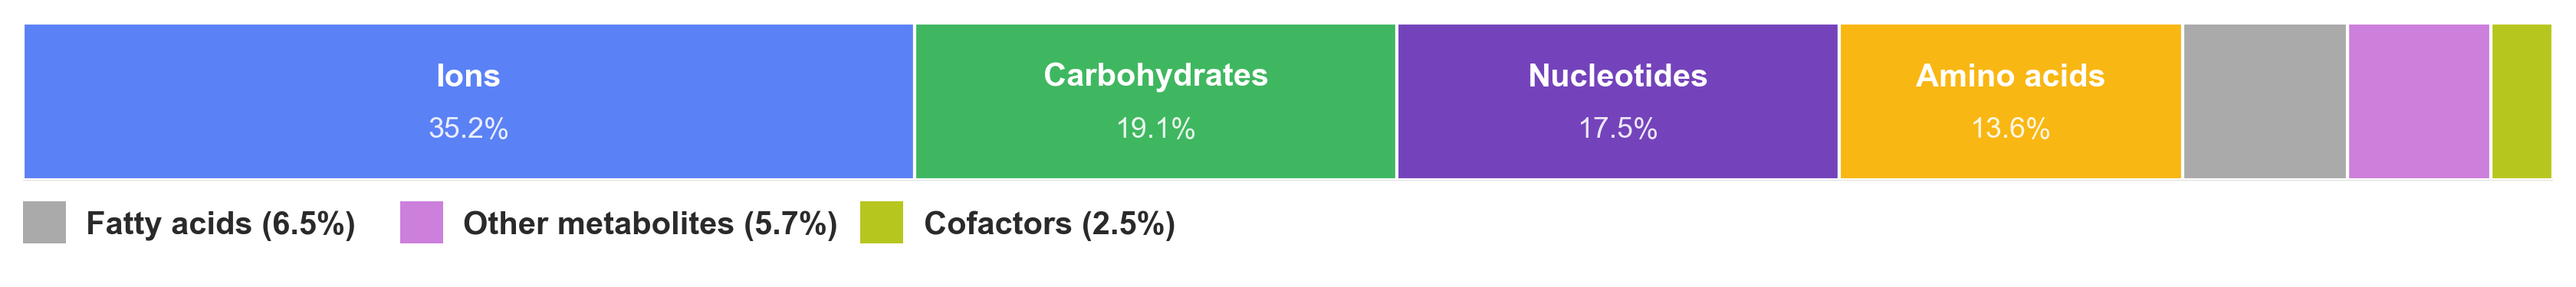
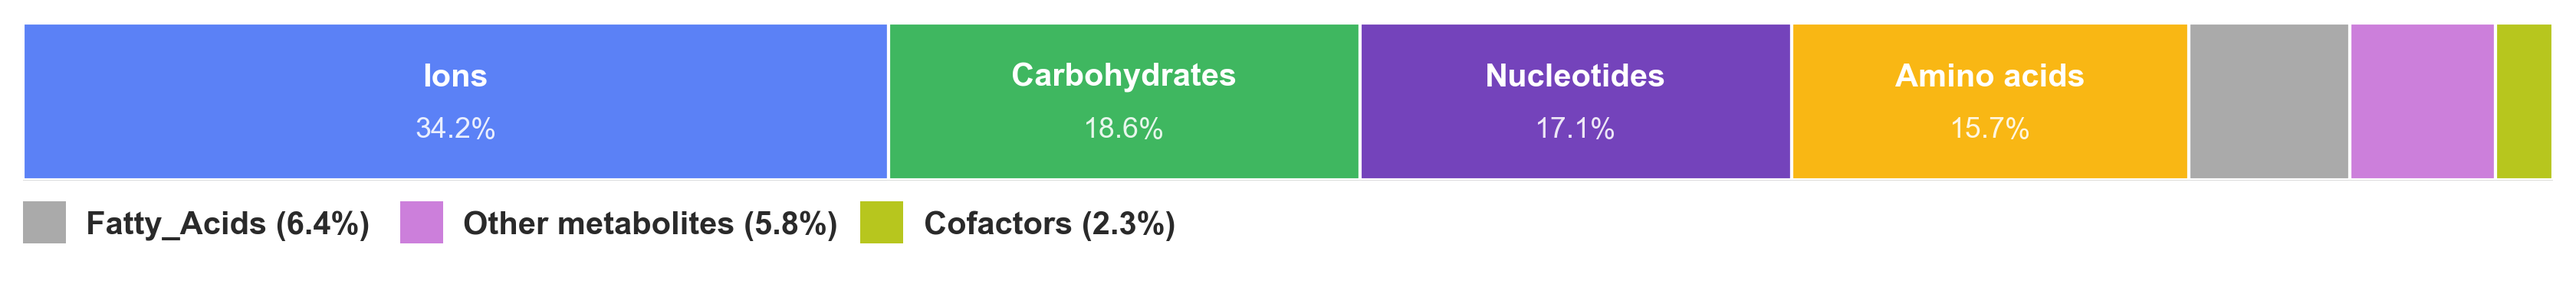
tweak figure 1A

diff --git a/figures/fig1/figure_1A.py b/figures/fig1/figure_1A.py
@@ -1,5 +1,4 @@
 import matplotlib
-import numpy as np
 import pandas as pd
 
 matplotlib.use("Agg")
@@ -7,7 +6,7 @@ import matplotlib.patches as mpatches
 import matplotlib.pyplot as plt
 
 met = pd.read_csv("cytosol_composition_metabolites.csv")
-info = pd.read_csv("info.csv")
+info = pd.read_csv("../../processed_data/info.csv")
 
 merged = met.merge(
     info[["resname", "class"]], left_on="Resname", right_on="resname", how="left"
@@ -133,12 +132,6 @@ for i, (cls, pct) in enumerate(small_segs.items()):
         fontweight="bold",
     )
     x += len(label) * 0.0055 + 0.025  # gap between entries
-
-## System stats — right side, clearly separated
-# stats = '500 ns  -  ~1 fL  -  382 protein species  -  139 metabolite types'
-# ax_foot.text(0.998, 0.50, stats,
-#             transform=ax_foot.transAxes,
-#             fontsize=7.5, color=LGRAY, va='center', ha='right')
 
 fig.tight_layout(pad=0)
 fig.savefig("figure_1A.png", bbox_inches="tight", transparent=True)
